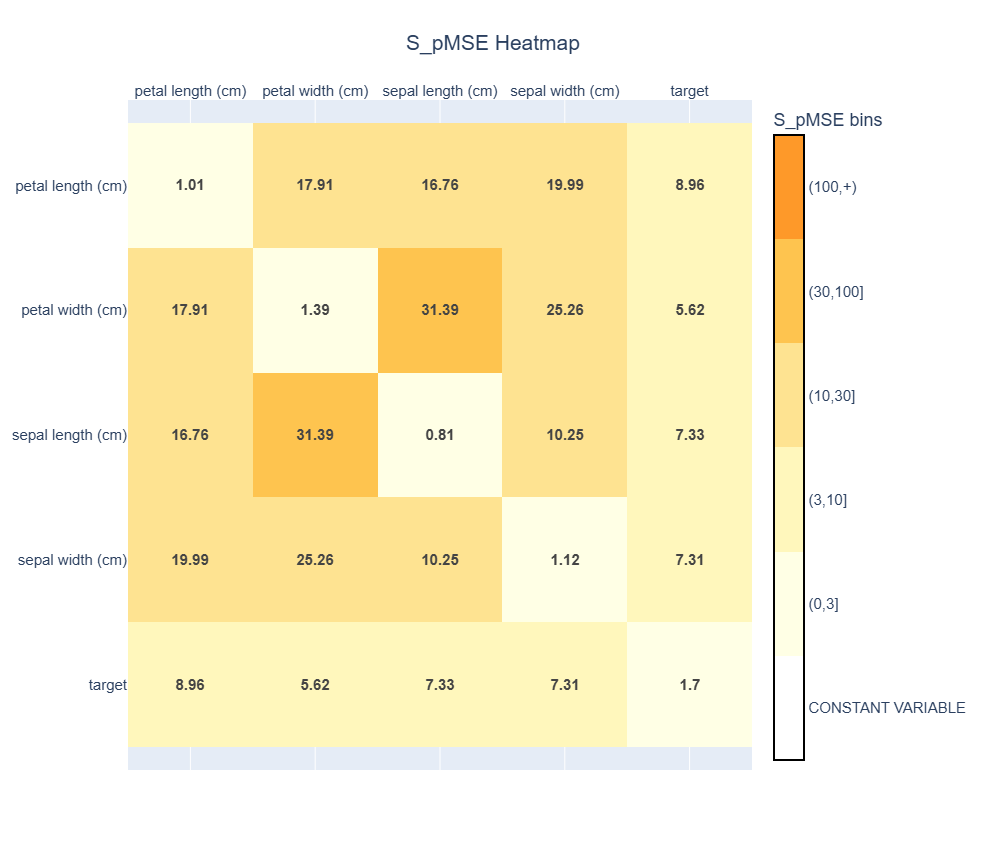
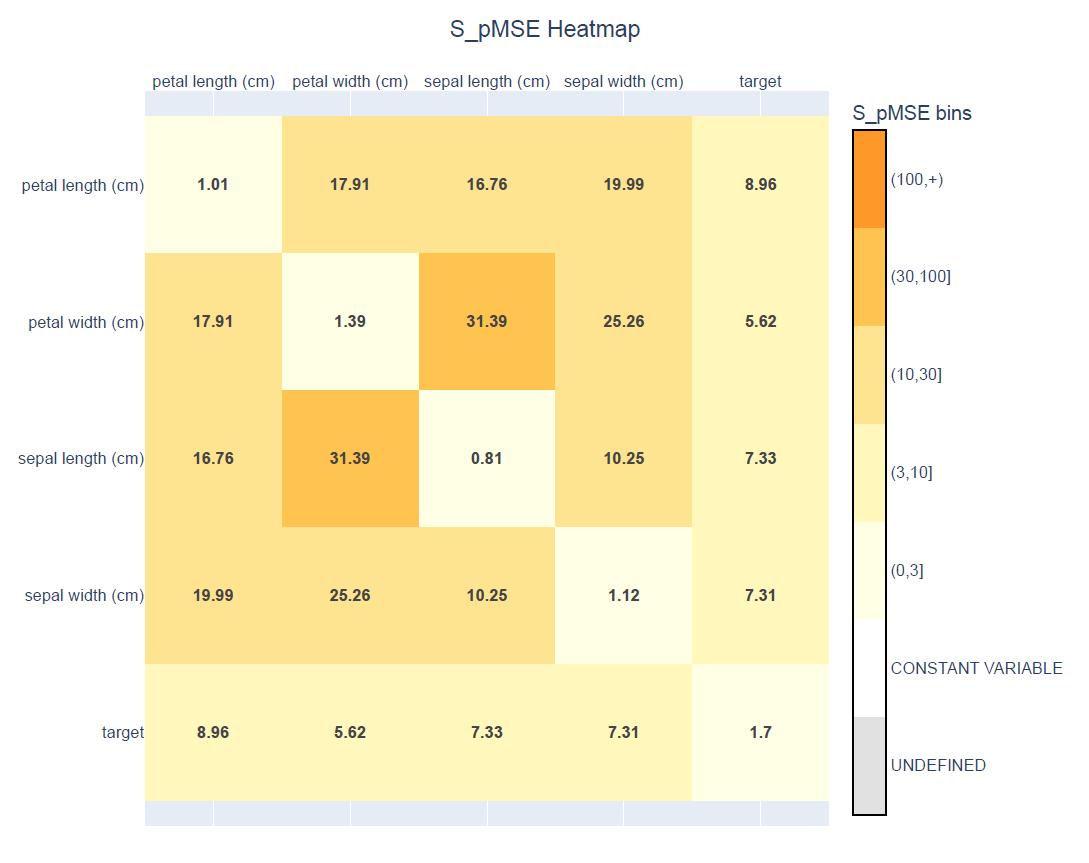
Changed the images and user guide

diff --git a/docs/source/user_guides/7_visualisations.md b/docs/source/user_guides/7_visualisations.md
@@ -154,7 +154,8 @@ The interpretation of S_pmSE values depends on characteristics such as dataset s
 | 10–30 | The relationship between the two variables differs between the synthetic and original data, but the relationships are still of a similar order of magnitude. A small proportion of variable pairs may fall within this range. Verification of these relationships is recommended. |
 | 30–100 | There is a substantial difference in the relationship between the two variables in the synthetic and original data. The relationship may still be partially preserved, but verification is essential for variable pairs in this range. |
 | >100 | The synthetic data has not adequately captured the relationship between the two variables. The synthetic relationship should not be considered reliable without further investigation. |
-| Constant variable | The S_pMSE cannot be meaningfully interpreted because the combination of the two variables is constant. The statistic is undefined for this case and is represented separately in the visualisation. |
+| Constant variable | The S_pMSE cannot be meaningfully interpreted because both variables are constant, or because the synthetic and original datasets have a one-to-one relation for the given variable pair. In these cases, the S_pMSE is expected to be 0 and should be displayed separately in the visualization. |
+| Undefined | The S_pMSE for the given variable pair is not available in the input dataset and is therefore considered undefined. |
 
 The heatmap groups S_pMSE values into these ranges to make patterns easier to identify.
 
